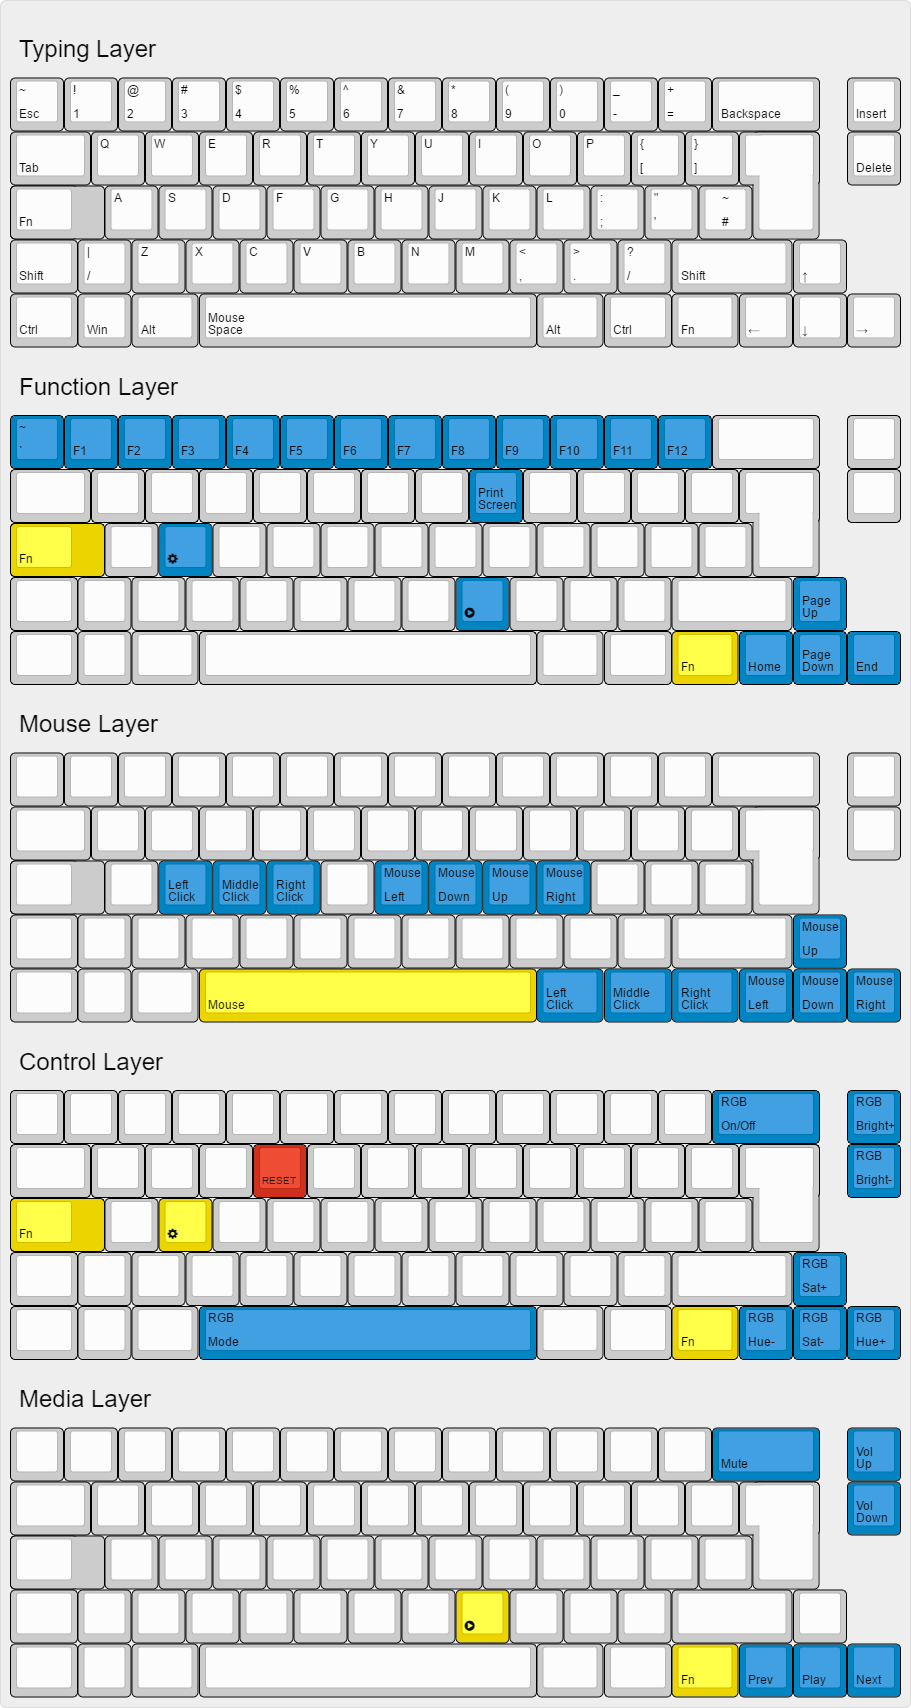
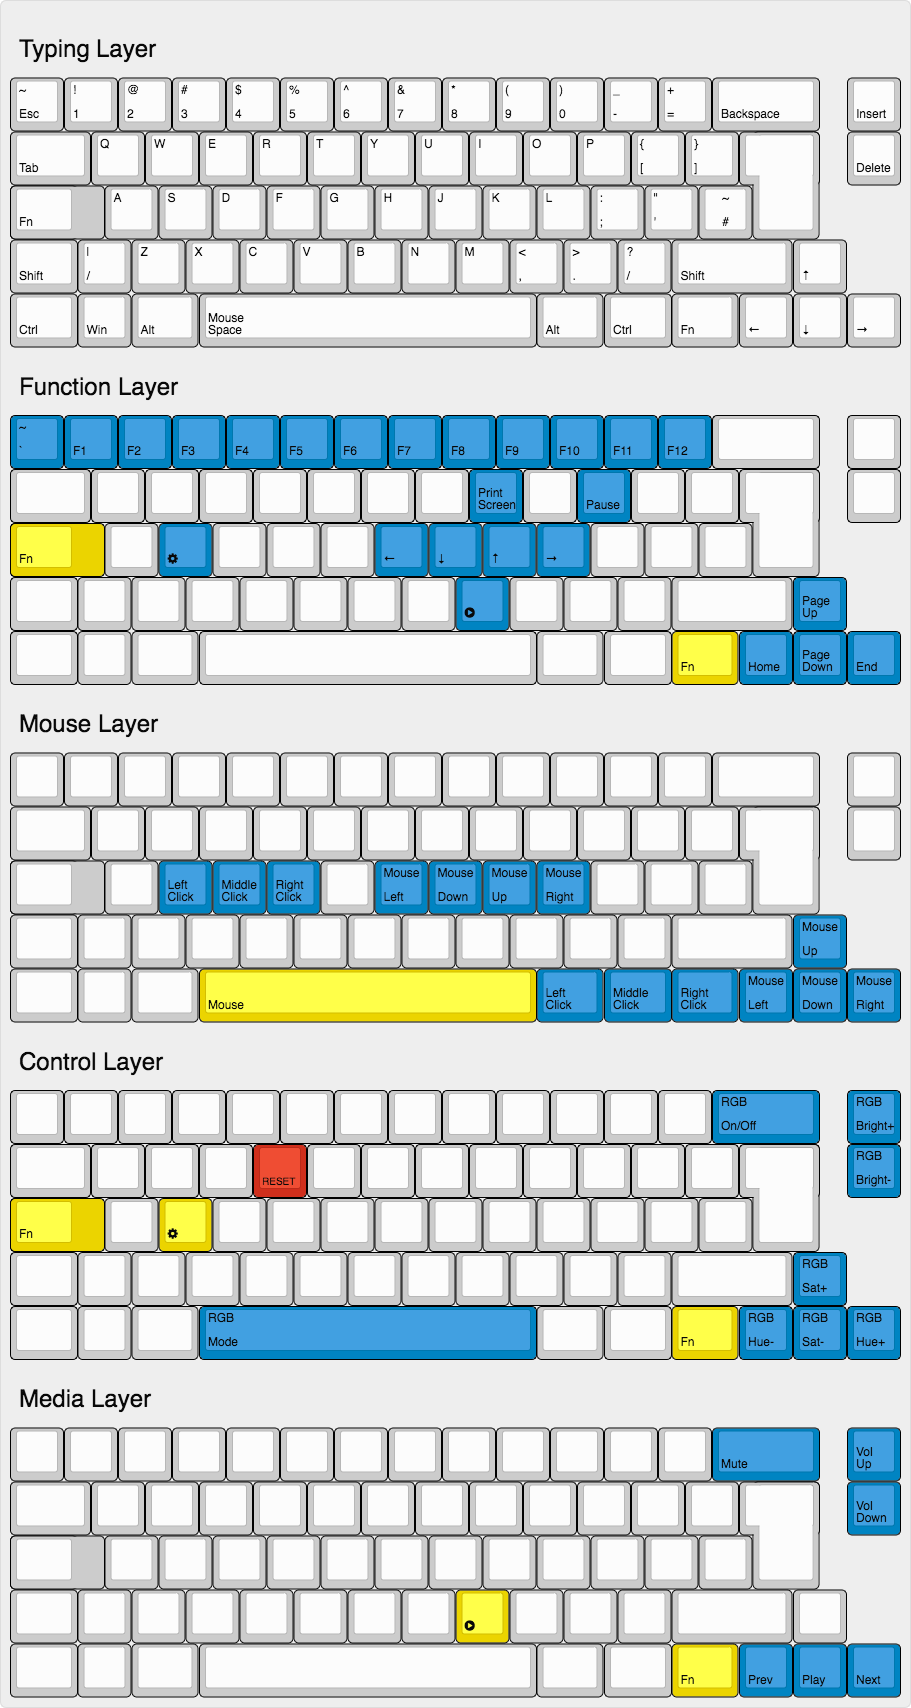
Fix layer LED signalling in magicmonty keymap (#1373)
* Fix layer LED signalling in magicmonty keymap

* Include the breathing modes in layer signalling

* Reverts mode to 1 as the other modes flicker

* Add Cursor keys on VIM positions and PAUSE to function layer

diff --git a/keyboards/clueboard/keymaps/magicmonty/keymap.c b/keyboards/clueboard/keymaps/magicmonty/keymap.c
@@ -28,8 +28,8 @@ const uint16_t PROGMEM keymaps[][MATRIX_ROWS][MATRIX_COLS] = {
    */
   [_FL] = KEYMAP(
     KC_GRV,  KC_F1,   KC_F2,  KC_F3,  KC_F4,  KC_F5,  KC_F6,  KC_F7,  KC_F8,  KC_F9,   KC_F10,   KC_F11,   KC_F12,   _______, _______,          BL_STEP, \
-    _______, _______, _______,_______,_______,_______,_______,_______,KC_PSCR,_______, _______,  _______,  _______,  _______,                   _______, \
-    MO(_FL), _______, MO(_CL),_______,_______,_______,_______,_______,_______,_______, _______,  _______,  _______,  _______,                            \
+    _______, _______, _______,_______,_______,_______,_______,_______,KC_PSCR,_______, KC_PAUS,  _______,  _______,  _______,                   _______, \
+    MO(_FL), _______, MO(_CL),_______,_______,_______,KC_LEFT,KC_DOWN,  KC_UP,KC_RGHT, _______,  _______,  _______,  _______,                            \
     _______, _______, _______,_______,_______,_______,_______,_______,MO(_ME),_______, _______,  _______,  _______,  _______,          KC_PGUP,          \
     _______, _______, _______,_______,        _______,_______,                         _______,  _______,  _______,  MO(_FL), KC_HOME, KC_PGDN, KC_END),
 
@@ -116,24 +116,29 @@ enum layer_id {
 void clueboard_set_led(uint8_t id) {
   switch (id) {
     case LAYER_BASE:
-      rgblight_sethsv(346, 0, 255);
+      rgblight_sethsv_noeeprom(346, 0, 255);
       break;
     case LAYER_FUNCTION:
-      rgblight_sethsv(46, 255, 255);
+      rgblight_sethsv_noeeprom(46, 255, 255);
       break;
     case LAYER_MEDIA:
-      rgblight_sethsv(86, 255, 255);
+      rgblight_sethsv_noeeprom(86, 255, 255);
       break;
     case LAYER_CONTROL:
-      rgblight_sethsv(346, 255, 255);
+      rgblight_sethsv_noeeprom(346, 255, 255);
       break;
     case LAYER_MOUSE:
-      rgblight_sethsv(206, 255, 255);
+      rgblight_sethsv_noeeprom(206, 255, 255);
       break;
   }
 };
 
 void matrix_scan_user(void) {
+    rgblight_config_t rgblight_config;
+    rgblight_config.raw = eeconfig_read_rgblight();
+
+    if (!rgblight_config.enable || rgblight_config.mode != 1) { return; }
+
     uint32_t layer = layer_state;
 
     if (layer & (1<<_FL)) {
